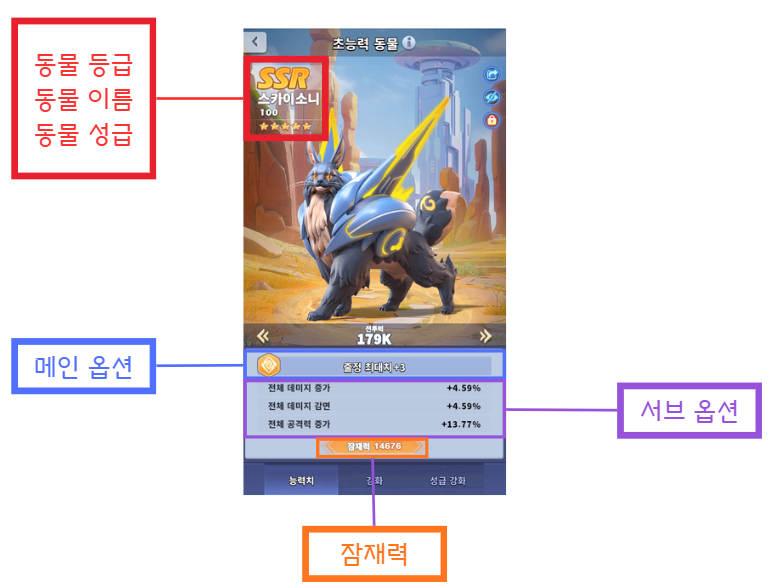
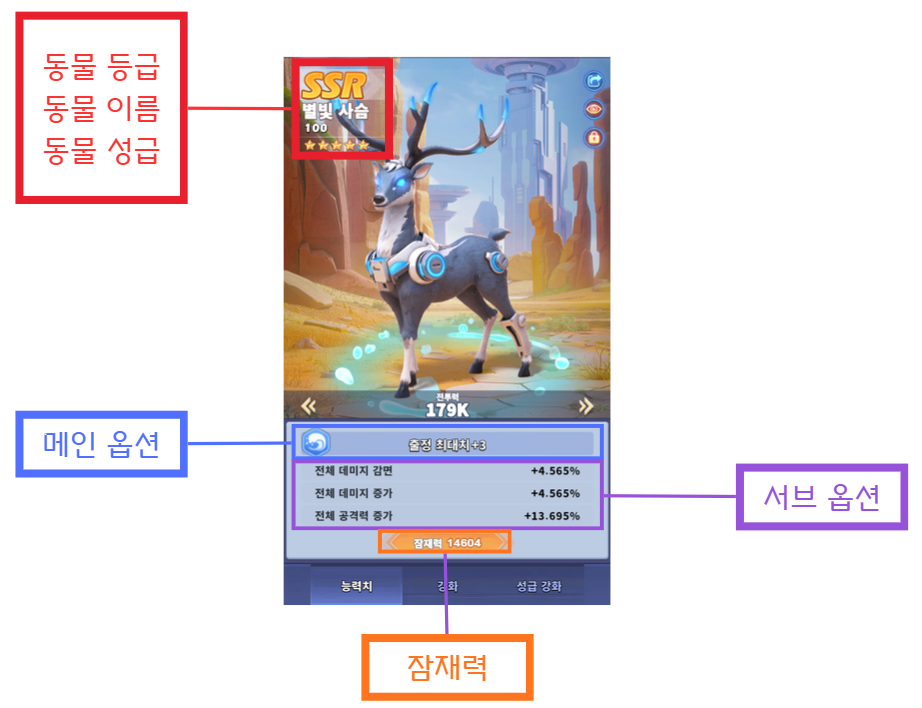
이미지 추가

Changed region(s): [[0.0, 0.0, 0.991, 1.0]]

diff --git a/src/assets/md/2026-09-28-001-Enigma/readme.md b/src/assets/md/2026-09-28-001-Enigma/readme.md
@@ -243,6 +243,8 @@ description: 초능력 동물의 종류, 효과와 영역별 특징에 대해서
 - 2차 (4종) : 말, 해오라기, 사자, 통통루
 - <span style="color:red">전체 서버 이벤트(지배자,봉인석 등)에서 받을 수 있는 스라소니(플러리소니, 스카이소니 등)</span>
 
+![동물종류](./동물종류.png)
+
 각 동물은 다음의 항목을 보유하고 있습니다.
 
 - 등급 : 매직, 레어, 유니크, 에픽
